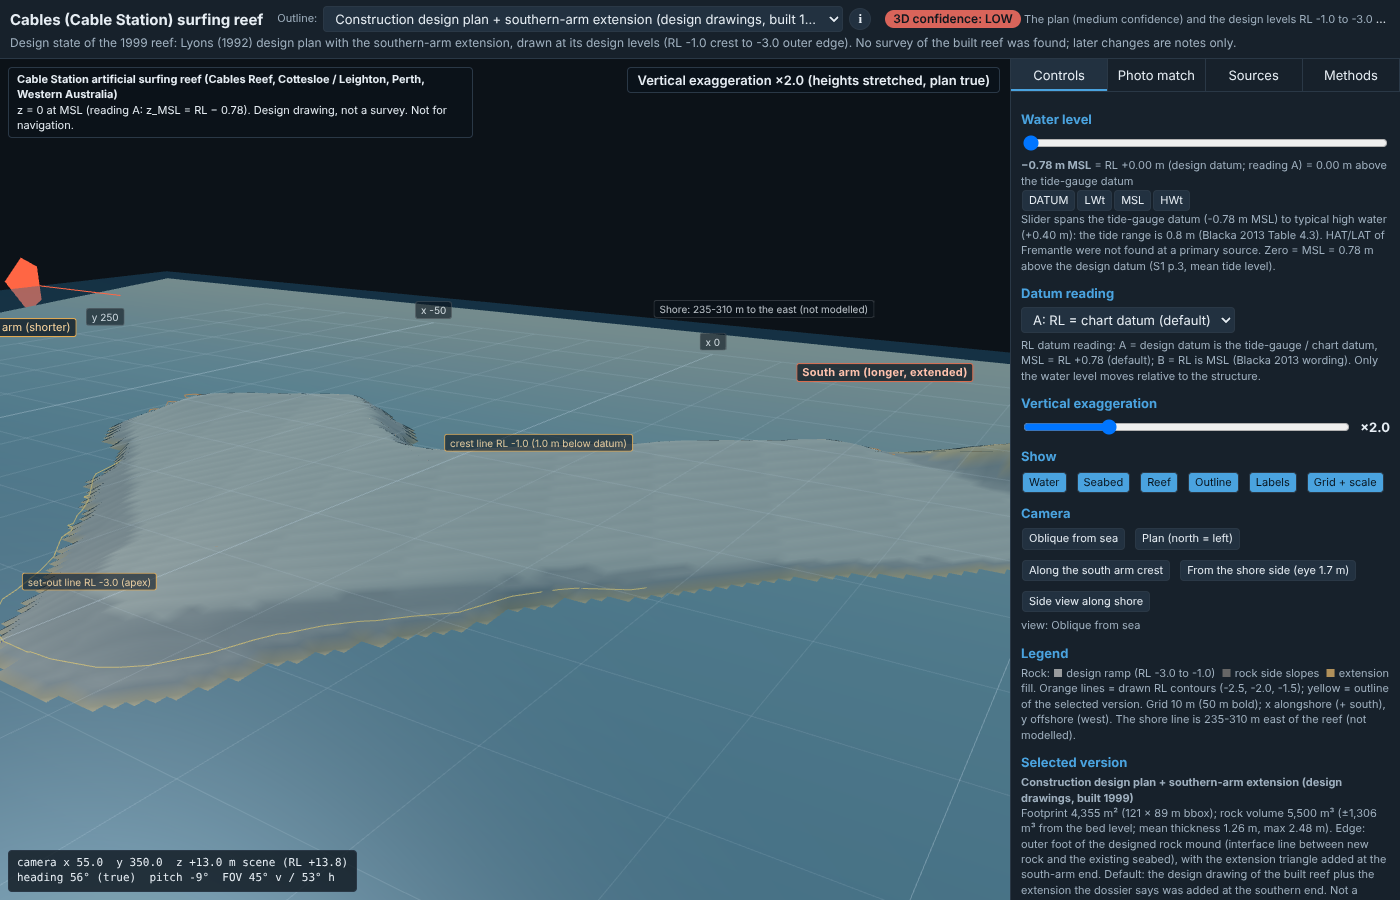
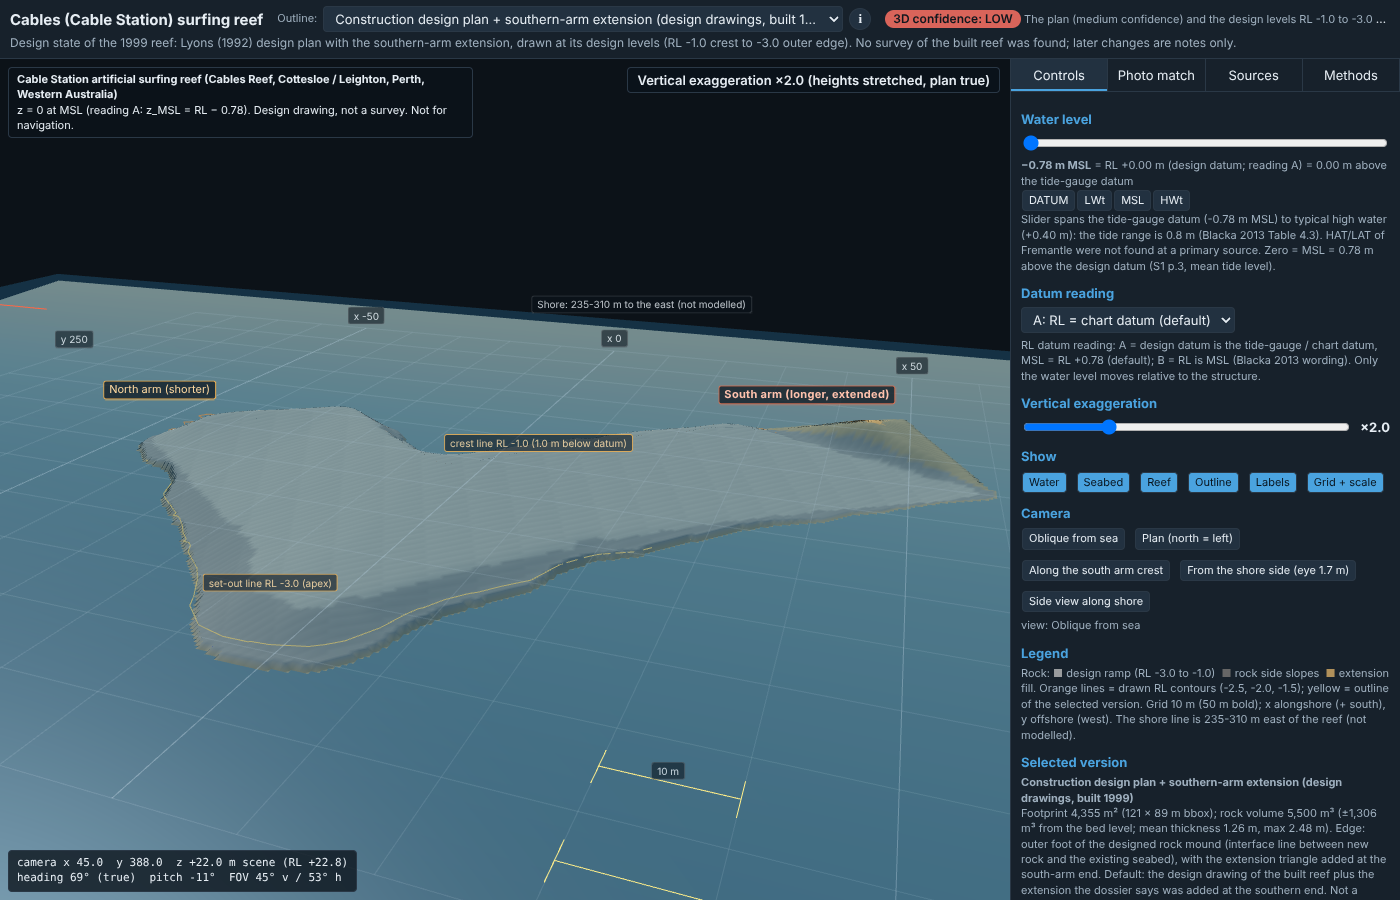
WIP checkpoint: agents in progress
Claude-Session: https://claude.ai/code/session_01QomPr3DTbVDqthgNQChCrv

diff --git a/07_scale/shapes/cables-reef-wa/3d/index.html b/07_scale/shapes/cables-reef-wa/3d/index.html
@@ -275,7 +275,7 @@ let curView = hp.get('view') || 'oblique';
 const T = m2s(0, 270, -3);
 const axisH = M.axis_xy ? M.axis_xy.head : [-12, 312], axisT = M.axis_xy ? M.axis_xy.tail : [60, 240];
 const VIEWS = {
-  oblique: { label: 'Oblique from sea', pos: () => m2s(25, 352, 30), tgt: () => m2s(0, 268, -3 * state.ve) },
+  oblique: { label: 'Oblique from sea', pos: () => m2s(45, 388, 44), tgt: () => m2s(0, 270, -3 * state.ve) },
   plan: { label: 'Plan (north = left)', pos: () => m2s(0, 272, 260), tgt: () => m2s(0, 270, 0) },
   crest: { label: 'Along the south arm crest', pos: () => { const d = [axisT[0] - axisH[0], axisT[1] - axisH[1]], L = Math.hypot(...d); return m2s(axisT[0] + d[0] / L * 25, axisT[1] + d[1] / L * 25, 3.0); }, tgt: () => m2s(axisH[0], axisH[1], -2) },
   shore: { label: 'From the shore side (eye 1.7 m)', pos: () => m2s(0, 205, 1.7), tgt: () => m2s(0, 280, -2) },

diff --git a/07_scale/shapes/cables-reef-wa/3d/aux/make_index.py b/07_scale/shapes/cables-reef-wa/3d/aux/make_index.py
@@ -67,7 +67,7 @@ a = txt.index("const T = m2s(-10, 330, -2);"); b = txt.index("function gotoView"
 views = """const T = m2s(0, 270, -3);
 const axisH = M.axis_xy ? M.axis_xy.head : [-12, 312], axisT = M.axis_xy ? M.axis_xy.tail : [60, 240];
 const VIEWS = {
-  oblique: { label: 'Oblique from sea', pos: () => m2s(25, 352, 30), tgt: () => m2s(0, 268, -3 * state.ve) },
+  oblique: { label: 'Oblique from sea', pos: () => m2s(45, 388, 44), tgt: () => m2s(0, 270, -3 * state.ve) },
   plan: { label: 'Plan (north = left)', pos: () => m2s(0, 272, 260), tgt: () => m2s(0, 270, 0) },
   crest: { label: 'Along the south arm crest', pos: () => { const d = [axisT[0] - axisH[0], axisT[1] - axisH[1]], L = Math.hypot(...d); return m2s(axisT[0] + d[0] / L * 25, axisT[1] + d[1] / L * 25, 3.0); }, tgt: () => m2s(axisH[0], axisH[1], -2) },
   shore: { label: 'From the shore side (eye 1.7 m)', pos: () => m2s(0, 205, 1.7), tgt: () => m2s(0, 280, -2) },

diff --git a/07_scale/shapes/cables-reef-wa/3d/REQUESTS_FOR_LIOR.md b/07_scale/shapes/cables-reef-wa/3d/REQUESTS_FOR_LIOR.md
@@ -1,0 +1,12 @@
+# REQUESTS_FOR_LIOR - Cable Station reef 3D model (cables-reef-wa, 2026-10-10)
+
+Nothing here blocks the model: it is built from the printed design drawing with the stated assumptions (LOW 3D confidence). Each row is something the sandbox could not read (network blocked). The reef has no surveyed coordinates in our sources (the card has only 'about 32.00 S, 115.74 E', a generic surf-spot position), so points are given by place and by the model frame: x alongshore (+ south), y offshore (+ west), metres from the shoreline point nearest the reef centroid; the centroid is at (0, 270). Reef landmarks in that frame: outer apex (-11, 314), inner apex (-12, 265), south arm tip (61, 248), north arm tip (-60, 268), valley between the arms (-38, 254), corner at the south arm (27, 238).
+
+| # | tool | where | what to read | datum / units to note | why it matters |
+|---|---|---|---|---|---|
+| 1 | Google Earth Pro (historical imagery slider) | Cable Station building (McCall Centre), Leighton Beach, Perth; the reef is a V pointing west, about 275 m off the waterline | the dates of the clearest images where the V is visible (low swell, clear water; 2009-2025), a screenshot of each, and with the ruler: arm tip to arm tip (model 121 m), apex to the line between the tips (model 76 m), distance apex to waterline (model about 310 m), and the bearing of each arm | metres; image date | checks the traced outline, the scale (+-3%), the extension at the south arm and the 270 m offshore position; it could also upgrade the shape to 'verified' |
+| 2 | Navionics app (SonarChart and Nautical Chart) | outer apex (-11, 314); inner apex (-12, 265); south arm tip (61, 248); north arm tip (-60, 268); 100 m and 300 m west of the apex | spot depth (tap) at each point; whether the V shows in the contours or as an obstruction symbol; contour interval | the app's stated datum (note it, or 'not stated'), metres or feet | the bed level under the reef (modelled RL -3.5 m at y = 270 m, fitted) and the seabed gradient (modelled 1:30, from a hand sketch) |
+| 3 | Navionics app | the shoreline (waterline) due east of the apex, and the 7 m contour west of the reef | distance apex to the 7 m contour (S1 says about 350 m from the shore; model 6.2 m at y = 350 m) | m | seabed slope at the offshore edge |
+| 4 | Tide table (Fremantle, Transport WA / BoM / Fremantle Ports) | Fremantle | LAT, MLWS, MSL, MHWS, HAT in m above chart datum, and chart datum relative to AHD | m | tide levels and the RL datum question: the model uses MSL = datum + 0.78 m (the 1999 paper) |
+| 5 | Decision / paper | WA Department of Transport (E7 in the root requests) | which datum the Lyons design 'RL' levels use (chart datum / low-water mark, or AHD) and the as-built crest level | - | reading A (RL = chart datum, crest 1.78 m below MSL) versus B (RL = MSL, crest 1.0 m below MSL): 0.78 m difference at the crest; the viewer has a switch |
+| 6 | Paper | Ranasinghe et al. (2001); Pattiaratchi (2003); Lyons (1992) UWA report | the size / date of the southern extension and the as-built levels | - | the extension (347 m2, 320 m3) is read from a low-resolution drawing |
